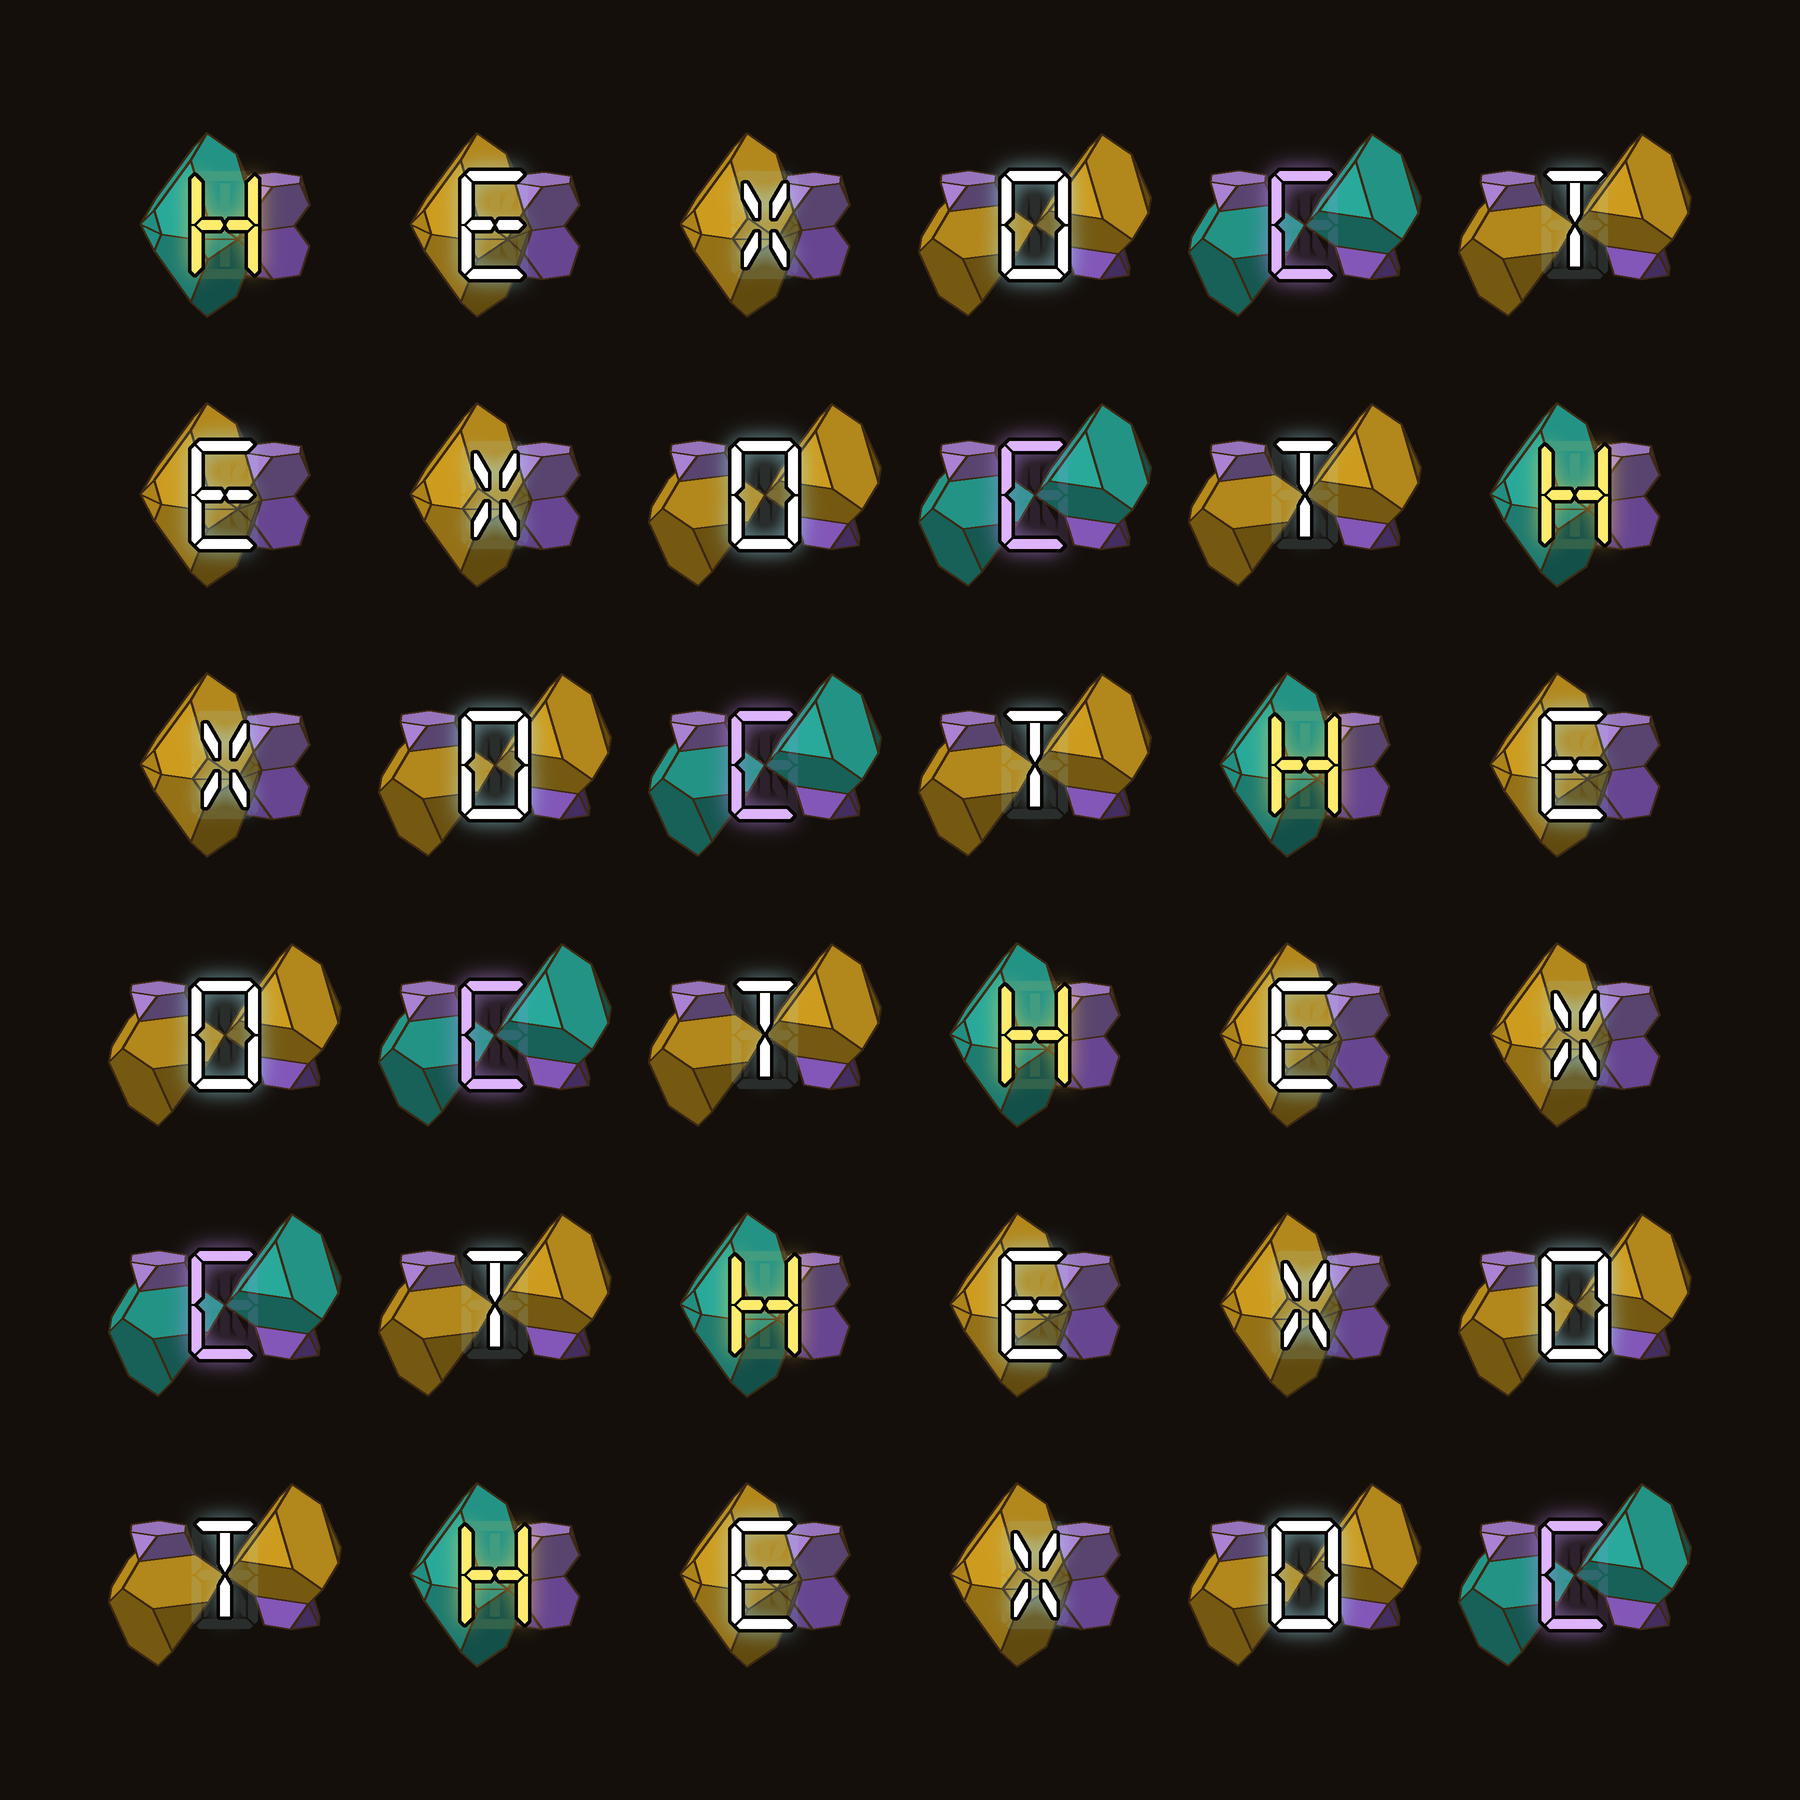
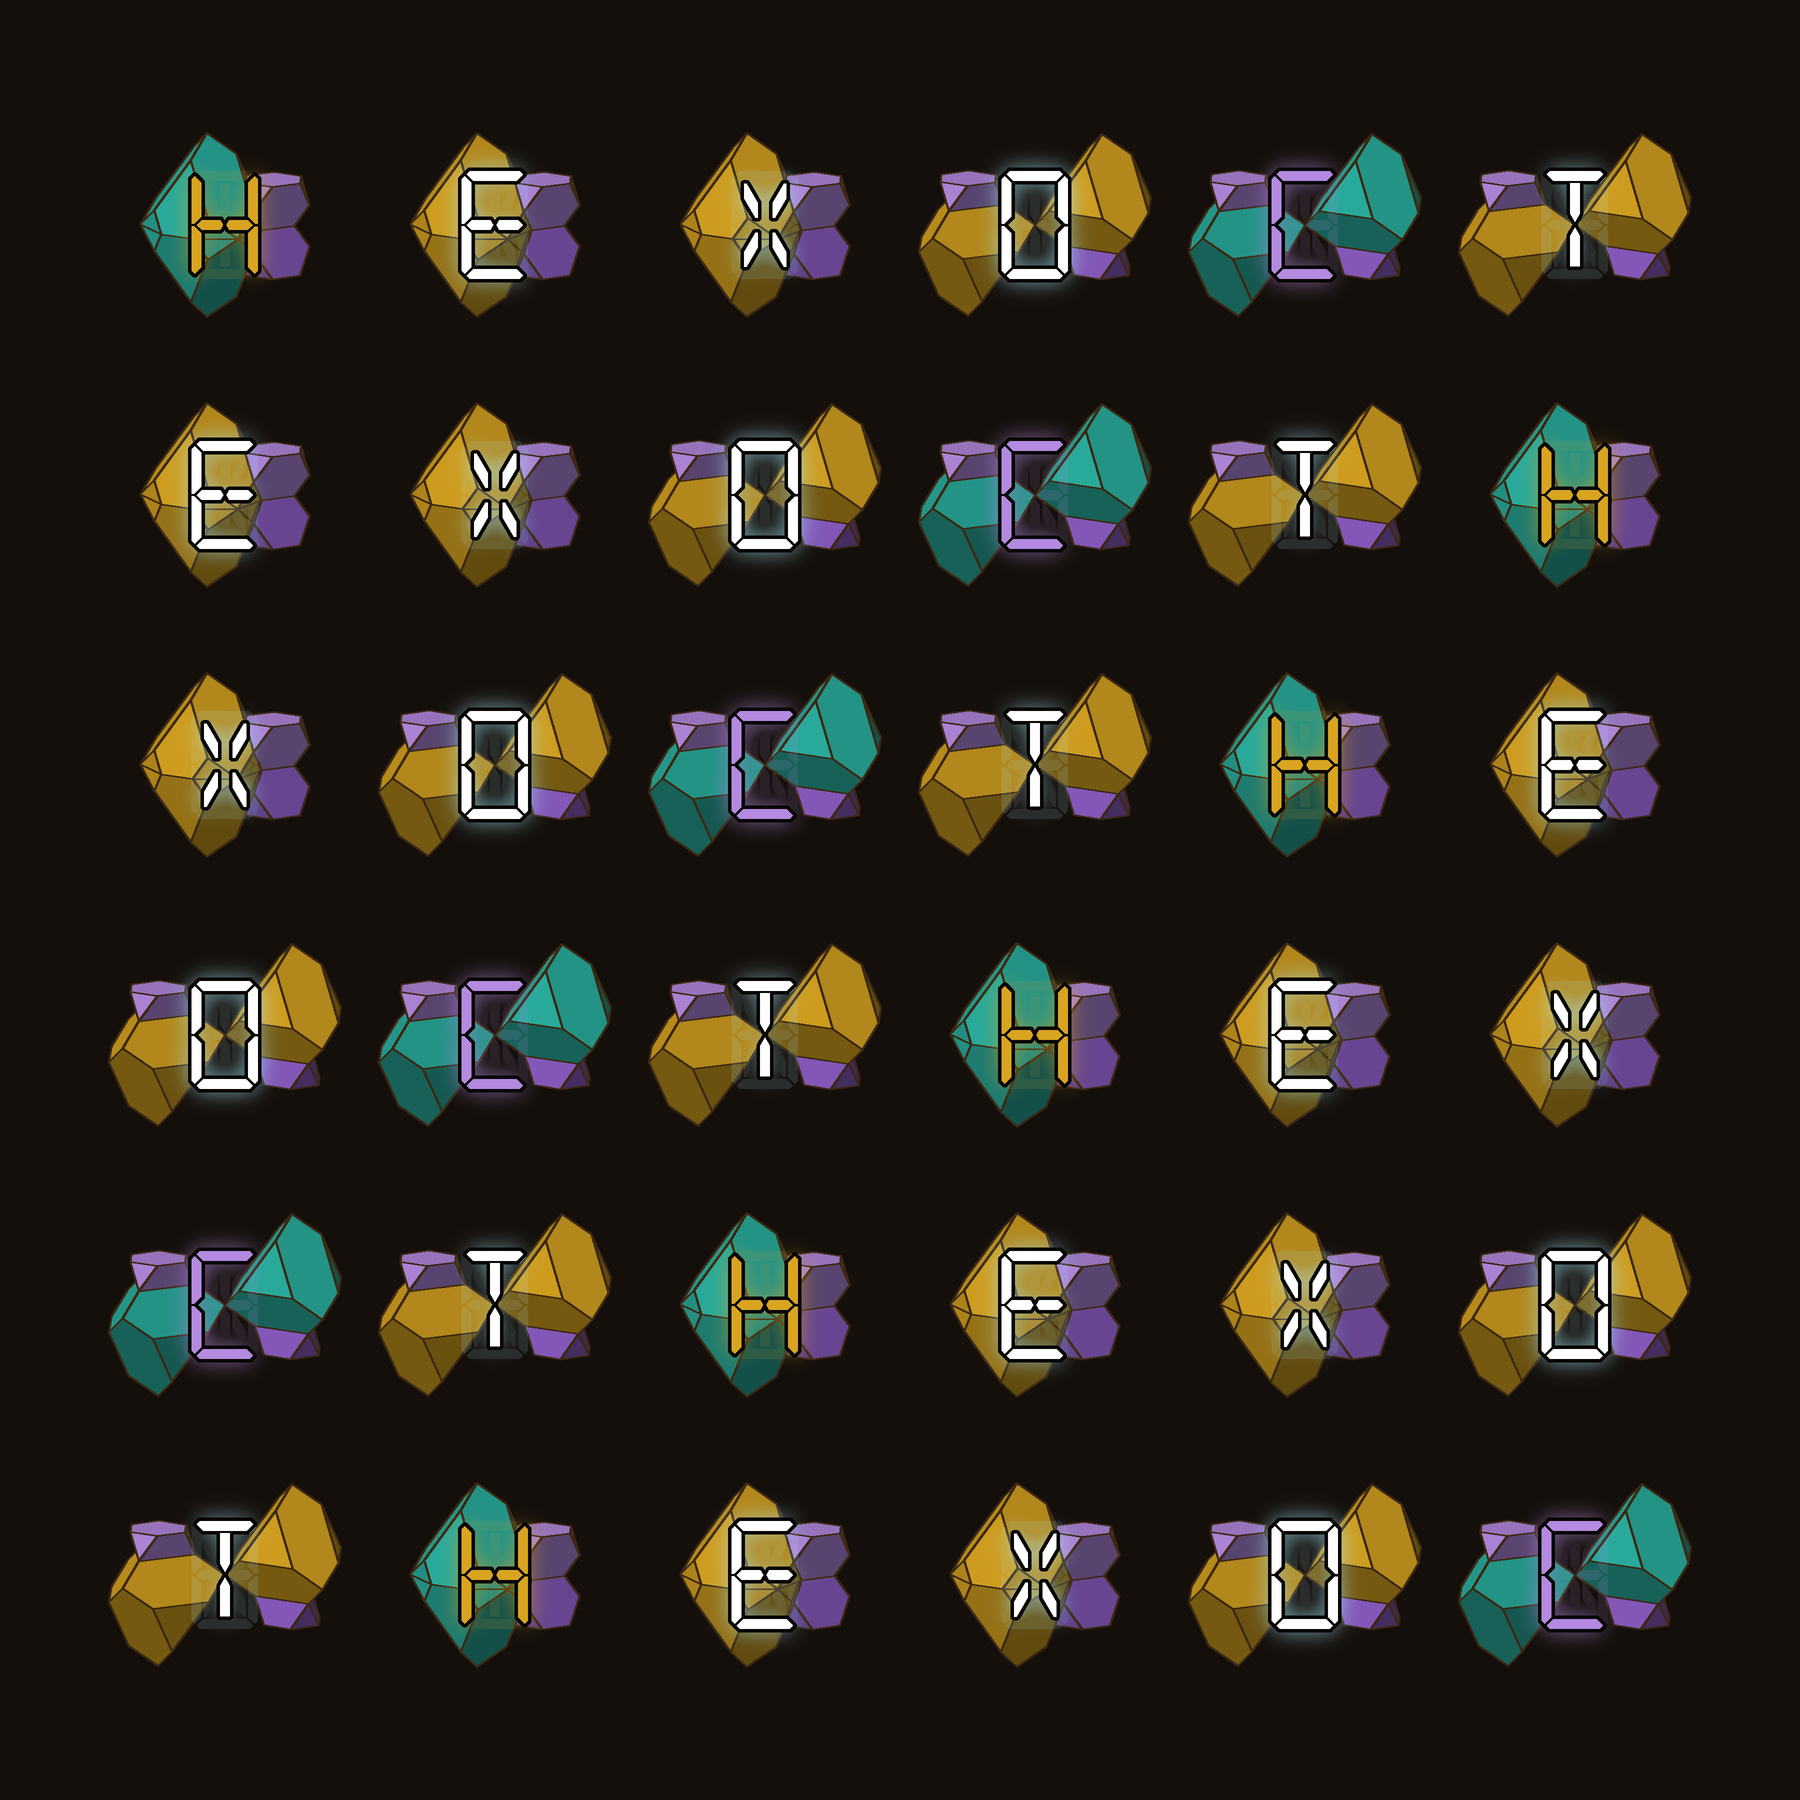
HexOct square: H and C in the exact gold and violet of the pieces (DICTO 10-29)

diff --git a/studies/2026-10-29-hexoct-cover/scripts/hexoct_square.py b/studies/2026-10-29-hexoct-cover/scripts/hexoct_square.py
@@ -66,8 +66,8 @@ def carved(ch):
     glow = ndimage.gaussian_filter(On, 0.006 * W); glow /= glow.max()
     core = np.array([255, 255, 255.]); halo = np.array([170, 240, 255.])   # full brightness, glow kept soft (DICTO: "not too bright though"); dim = np.array([70, 62, 52.])
     # DICTO: H and C, the letters on their own tile (teal), in the pieces' colourway: H yellow (gold), C purple (violet)
-    if ch == 'H': core = np.array([255, 236, 110.]); halo = np.array([255, 215, 90.])
-    if ch == 'C': core = np.array([222, 180, 255.]); halo = np.array([196, 148, 255.])
+    if ch == 'H': core = np.array(TONE['tet'], float); halo = core      # exactly the gold of the pieces (DICTO)
+    if ch == 'C': core = np.array(TONE['octdn'], float); halo = core    # exactly the (lighter) violet of the pieces
     rgb = (core * On[..., None] + halo * (1 - On[..., None])) * (On + 0.6 * glow)[..., None] / np.maximum(On + 0.6 * glow, 1e-6)[..., None]
     # dark edges at full strength (DICTO, final: "back to the stronger black outline"); unlit segments a faint veil
     rim = (Rim - On) > 0.3

diff --git a/studies/2026-10-29-hexoct-cover/README.md b/studies/2026-10-29-hexoct-cover/README.md
@@ -2,7 +2,7 @@
 
 DICTO's idea (2026-10-29): a square cover for "HexOct: The Laws of Stacking" like the DICTO square, 6 × 6, letters H E X O C T, with the two HexOct tiles.
 
-**Conclusion:** LED cover: upright DSEG14 Classic, letters 0.06 of the width, full black letter edges, letters at full brightness with a soft glow; H (always on the h-tile, hexagonal) yellow and C (always on the c-tile, cubic) purple, on teal, the pieces' colourway; other letters white. Status: final candidate, awaiting DICTO.
+**Conclusion:** LED cover: upright DSEG14 Classic, letters 0.06 of the width, full black letter edges, letters at full brightness with a soft glow; H (always on the h-tile, hexagonal) in exactly the gold of the pieces (217, 165, 33) and C (always on the c-tile, cubic) in exactly their lighter violet (180, 138, 224), on teal; other letters white. Status: final candidate, awaiting DICTO.
 
 - Cyclic Latin square: cell (i, j) holds letter (i + j) mod 6 of HEXOCT. HEXOCT reads across the top and down the left; each letter appears once in every row and every column and runs in one diagonal stripe.
 - Shapes: H, E, X on the h-tile and O, C, T on the c-tile (Hex | Oct). The tiles are the exact c-tile (from ABC) and h-tile (from AB) of #75 at λ = 1/10, built by tiles.py. Colours as in #75: tetrahedral pieces gold, octahedral halves violet. Same view and scale for both tiles.
